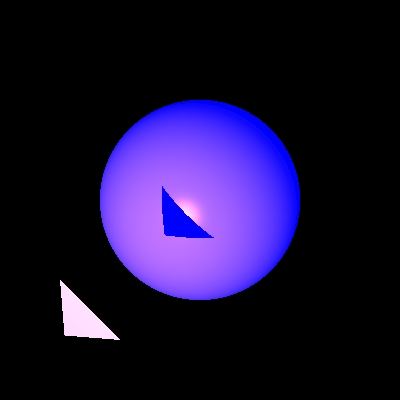
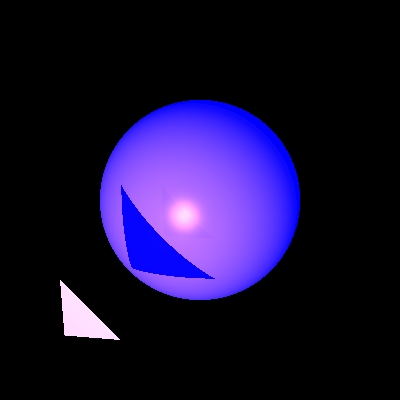
tentative shadow..... en mm temps ici tu vois direct les truc qui ont ete modifie et ya un zoom video par partage decran qui arrive

Changed region(s): [[0.3, 0.45, 0.54, 0.72]]

diff --git a/src/renderer/Render.java b/src/renderer/Render.java
@@ -1,8 +1,11 @@
 package renderer;
 
+import elements.DirectionalLight;
 import elements.LightSource;
+import elements.PointLight;
 import geometries.*;
 import geometries.Intersectable;
+import geometries.Intersectable.*;
 import primitives.Point3D;
 import primitives.Ray;
 import primitives.Vector;
@@ -328,38 +331,38 @@ public class Render
     {
         Vector inverse= lightVector.scale(-1);
         Ray Droite;
-        Vector EPS = normal.scale(normal.dotProduct(inverse) > 0 ? DELTA : -DELTA);
-        if(gp.geometry instanceof FlatGeometry)
-        {
-            Droite = new Ray(inverse, gp.point);
-        }
-        else
-        {
-            Droite = new Ray(inverse, gp.point.Add(EPS));
-        }
-        List<Intersectable.GeoPoint> tempList;
-        double distance = light.getDistance(gp.point);
-        double kkr = 1;
-        for (Geometry temp:_scene.get_geometries())
-        {
-            tempList = temp.findIntersection(Droite,distance);
-            if(tempList != null)
-            {
-                for (Intersectable.GeoPoint tempGeopoint : tempList)
-                {
-                    if(!tempGeopoint.point.equals(gp.point))
-                        kkr*= gp.geometry.get_material().get_kT();
+        if(light instanceof DirectionalLight) {
+            Vector EPS = normal.scale(normal.dotProduct(inverse) > 0 ? DELTA : -DELTA);
+            if (gp.geometry instanceof FlatGeometry) {
+                Droite = new Ray(inverse, gp.point);
+            } else {
+                Droite = new Ray(inverse, gp.point.Add(EPS));
+            }
+            List<Intersectable.GeoPoint> tempList;
+            double distance = light.getDistance(gp.point);
+            double kkr = 1;
+            for (Geometry temp : _scene.get_geometries()) {
+                tempList = temp.findIntersection(Droite, distance);
+                if (tempList != null) {
+                    for (Intersectable.GeoPoint tempGeopoint : tempList) {
+                        if (!tempGeopoint.point.equals(gp.point))
+                            kkr *= gp.geometry.get_material().get_kT();
+                    }
                 }
             }
+            return kkr;
         }
-        return kkr;
+        return transparency2(lightVector,normal,gp,light);
     }
 
-    private double transparency2(Vector lightVector, Vector normal, Intersectable.GeoPoint gp,LightSource light)
+    private double transparency2(Vector lightVector, Vector normal, GeoPoint gp,LightSource light)
     {
+
         Vector inverse= lightVector.scale(-1);
-        Ray Droite;
         Vector EPS = normal.scale(normal.dotProduct(inverse) > 0 ? DELTA : -DELTA);
+        //Ray lightRay = new Ray(geoPoint.point, lightDirection, n);// from point to light source
+
+        Ray Droite;
         if(gp.geometry instanceof FlatGeometry)
         {
             Droite = new Ray(inverse, gp.point);
@@ -368,22 +371,77 @@ public class Render
         {
             Droite = new Ray(inverse, gp.point.Add(EPS));
         }
+        List<Ray> Rays = Droite.getRays(light.get_Position(),light.get_radius());
+
         List<Intersectable.GeoPoint> tempList;
+
         double distance = light.getDistance(gp.point);
         double kkr = 1;
-        for (Geometry temp:_scene.get_geometries())
-        {
-            tempList = temp.findIntersection(Droite,distance);
-            if(tempList != null)
-            {
-                for (Intersectable.GeoPoint tempGeopoint : tempList)
-                {
-                    if(!tempGeopoint.point.equals(gp.point))
-                        kkr*= gp.geometry.get_material().get_kT();
+        double sumKtr = 0;//sum ktr of all intersection points for all rays
+        for(Ray r : Rays) {
+
+            for (Geometry temp : _scene.get_geometries()) {
+
+                tempList = temp.findIntersection(r, distance);
+
+                if (tempList != null) {
+                    for (Intersectable.GeoPoint tempGeopoint : tempList) {
+                        if (!tempGeopoint.point.equals(gp.point))
+                            kkr *= gp.geometry.get_material().get_kT();
+                    }
                 }
             }
+            sumKtr +=  kkr;
+            kkr = 1.0;
         }
-        return kkr;
+        double RaySize = Rays.size();
+        return (sumKtr / RaySize);
+
+        /*
+        Vector inverse= lightVector.scale(-1);
+        double distance = lightSource.getDistance(geoPoint.point);
+        double kkr = 1;
+
+
+        Vector EPS = normal.scale(normal.dotProduct(inverse) > 0 ? DELTA : -DELTA);
+
+        Vector lightDirection = lightVector.scale(-1); // from point to light source
+        //surement cquil faut rajouter du fait que mtn cest un spot cercle
+        Ray lightRay = new Ray(geoPoint.point, lightDirection);// from point to light source
+        List<Ray> listRay = lightRay.getRays(lightSource.get_Position(), (int) lightSource.get_radius());
+
+        double lightDistance = lightSource.getDistance(geoPoint.point);
+
+        double ktr = 1.0;
+        double sumKtr = 0;//sum ktr of all intersection points for all rays
+        boolean flagIntersection = false;
+
+        for (Ray r : listRay) {
+            List<GeoPoint> intersecOneRay = _scene.get_geometries().get(1).findIntersection(r, lightDistance);
+            // if the ray 'r' don't crosses any geometries, it's like it crosses geometries transparent
+            if (intersecOneRay == null) ktr = 1.0;
+            else {
+                flagIntersection = true;//there is at least one intersection point
+                // calculate an accumulation of ktr for all geometries crossed by the ray 'r'
+                for (Intersectable.GeoPoint gpt : intersecOneRay) {
+                    ktr *= gpt.geometry.get_material().get_kT();
+                }
+            }
+
+            sumKtr += ktr;
+            ktr = 1.0;
+        }
+
+        if (flagIntersection == false)//if there aren't any intersection
+            return 1.0;
+
+        int numRay = listRay.size();
+        double ktrAverage = sumKtr / numRay;
+
+        return ktrAverage;
+
+         */
+
     }
 
 

diff --git a/src/primitives/Ray.java b/src/primitives/Ray.java
@@ -1,5 +1,9 @@
 package primitives;
 
+import java.util.ArrayList;
+import java.util.List;
+import java.util.Random;
+
 /**
  * The type Ray.
  */
@@ -147,4 +151,37 @@ public class Ray
     {
         return _POO;
     }
+
+
+
+    public List<Ray> getRays(Point3D coord, double radius)
+    {
+            List<Ray> Rays = new ArrayList<>();
+            Rays.add(this);
+
+            double coordX = coord.getCoordX().get();
+            double coordY = coord.getCoordY().get();
+            double coordZ = coord.getCoordZ().get();
+
+             Random random = new Random();
+
+             for (int i = 0; i < 26; i++)
+             {
+                 double x = random.nextInt((int)(coordX + radius -  (coordX - radius) + 1)) + (coordX - radius);
+                 double y = random.nextInt((int)(coordY + radius -  (coordY - radius) + 1)) + (coordY - radius);
+                 double z = random.nextInt((int)(coordZ + radius -  (coordZ - radius) + 1)) + (coordZ - radius);
+                 Point3D point = new Point3D(x, y, z);
+                 Vector temp = point.subtract(this._POO);
+                 Ray ray = new Ray(this._POO, temp);
+                 Rays.add(ray);
+             }
+         return Rays;
+    }
+
+
+
+
+
+
+
 }

diff --git a/src/elements/PointLight.java b/src/elements/PointLight.java
@@ -1,5 +1,6 @@
 package elements;
 
+import geometries.Sphere;
 import primitives.Color;
 import primitives.Point3D;
 import primitives.Vector;
@@ -65,7 +66,28 @@ public class PointLight extends Light implements LightSource
     }
 
     @Override
-    public double get_radius(Point3D p){return _radius; }
+    public double get_radius(){return _radius; }
+
+   /* @Override
+    public Sphere getSphere(Point3D p, double r)
+    {
+        Sphere SLight = new Sphere(r,p);
+        return SLight;
+    }
+      @Override
+    public Sphere getSphere()
+    {
+        Sphere SLight = new Sphere(_radius,_Position);
+        return SLight;
+    }
+
+    */
+
+   @Override
+   public Point3D get_Position() { return _Position; }
+
+
+
 }
 
 

diff --git a/src/elements/DirectionalLight.java b/src/elements/DirectionalLight.java
@@ -13,6 +13,16 @@ public class DirectionalLight extends Light implements LightSource {
         return Double.POSITIVE_INFINITY;
     }
 
+    @Override
+    public double get_radius() {
+        return 0;
+    }
+
+    @Override
+    public Point3D get_Position() {
+        return null;
+    }
+
     /**
      * Instantiates a new DirectionalLight.
      * @param _intensity
@@ -50,4 +60,7 @@ public class DirectionalLight extends Light implements LightSource {
     public Vector getL(Point3D p) {
         return _direction;
     }
+
+
+
 }

diff --git a/src/elements/LightSource.java b/src/elements/LightSource.java
@@ -1,5 +1,6 @@
 package elements;
 
+import geometries.Sphere;
 import primitives.Color;
 import primitives.Point3D;
 import primitives.Vector;
@@ -8,5 +9,9 @@ public interface LightSource {
     public Color getIntensity(Point3D p);
     public Vector getL(Point3D p);
     double getDistance(Point3D p);
-    double get_radius(Point3D p);
+
+    double get_radius();
+    Point3D get_Position();
+    //public Sphere getSphere();
+    //Sphere getSphere(Point3D p, double r);
 }

diff --git a/src/elements/SpotLight.java b/src/elements/SpotLight.java
@@ -9,7 +9,6 @@ import primitives.*;
 public class SpotLight extends PointLight
 {
     private Vector _direction;
-    //private double _radius;
 
 
     /**
